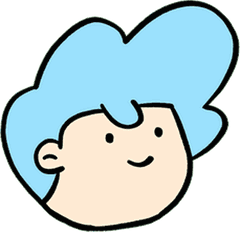
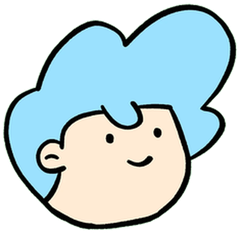
Map face: the whole head inside the circle, nothing over the ring (owner: still not neat)
The hair no longer breaks out over the amber ring. The head is re-cut
from the 512 px icon with its full outline (the old cut lost the
top-right edge) and sits centered in the mint circle without a clip.
The service worker cache version is bumped because the image was
replaced in place.

Claude-Session: https://claude.ai/code/session_01V9xssjYCJ36JvDWDtGAXJL

diff --git a/css/game.css b/css/game.css
@@ -705,14 +705,11 @@ body.game-mode #game.at-paper{background:var(--paper,#FBF7EE) var(--grain);color
 @media (prefers-reduced-motion:reduce){.g-tabs button.active .g-ico,.g-tabs button.t-bounce .g-ico,.g-face.t-nod{animation:none}
   .g-tabs .g-ind{transition:none}.g-tabs button:hover .g-ico,.g-tabs button.center:hover .g-face{translate:none}}
 
-/* Map face, sticker style: the mint circle is a frame and Ekky's head pops out over its top edge. Below the circle's middle
-   the head is masked to the circle, above it the hair breaks out. The head lifts a little while Map is the active tab. */
+/* Map face (owner, 10-28 "still not neat"): the whole head sits centered inside the mint circle, sized to fit it, with nothing
+   breaking out over the ring. The amber ring (::after) marks the active tab. */
 .g-tabs .g-face{padding:0;overflow:visible}
-.g-face-img{position:absolute;left:-2px;top:-11px;width:58px;height:56px;max-width:none;pointer-events:none;transition:translate .25s var(--ease-in);
-  -webkit-mask:radial-gradient(circle 28px at 30px 39px,#000 98%,transparent 100%),linear-gradient(#000,#000) top/100% 39px no-repeat;
-  mask:radial-gradient(circle 28px at 30px 39px,#000 98%,transparent 100%),linear-gradient(#000,#000) top/100% 39px no-repeat}
-.g-tabs button.center.active .g-face-img{translate:0 -2px}
-@media (prefers-reduced-motion:reduce){.g-face-img{transition:none}}
+.g-face-img{position:absolute;inset:0;width:100%;height:100%;max-width:none;box-sizing:border-box;padding:6px 6px 5px;
+  object-fit:contain;object-position:50% 60%;pointer-events:none}
 
 /* Start screen: the game tiles' icons tilt on touch and hover, the language toggle lifts on hover and the chosen language pops
    once when it changes. Finite, never looping. */

diff --git a/index.html b/index.html
@@ -361,7 +361,7 @@
 
   <nav class="g-tabs" aria-label="Game menu">
     <button data-tab="art"><span class="g-ico"><img src="assets/ui/palette.png" alt="" fetchpriority="low"></span><span data-t="tab.art"></span></button>
-    <button data-tab="map" class="center"><span class="g-face"><img class="g-face-img" src="assets/ui/face-pop.png" alt="" width="58" height="56"></span><small data-tt="tab.map|Map"></small></button>
+    <button data-tab="map" class="center"><span class="g-face"><img class="g-face-img" src="assets/ui/face-pop.png" alt="" width="56" height="56"></span><small data-tt="tab.map|Map"></small></button>
     <button data-tab="mine"><span class="g-ico g-ico-line"><svg class="ico" aria-hidden="true"><use href="#i-frame"/></svg></span><span data-t="tab.mine"></span></button>
   </nav>
 

diff --git a/sw.js b/sw.js
@@ -1,6 +1,6 @@
 // Service worker for "Install the app" (B40, FEATURES.pwa). Network first, so a new build shows at once; what was
 // fetched before stays available offline. Same-origin GET requests only. Bump VERSION to drop old caches.
-const VERSION = "ekky-s6-1";
+const VERSION = "ekky-s6-2";
 self.addEventListener("install", e => self.skipWaiting());
 self.addEventListener("activate", e => e.waitUntil(caches.keys().then(keys =>
   Promise.all(keys.filter(k => k !== VERSION).map(k => caches.delete(k)))).then(() => self.clients.claim())));
